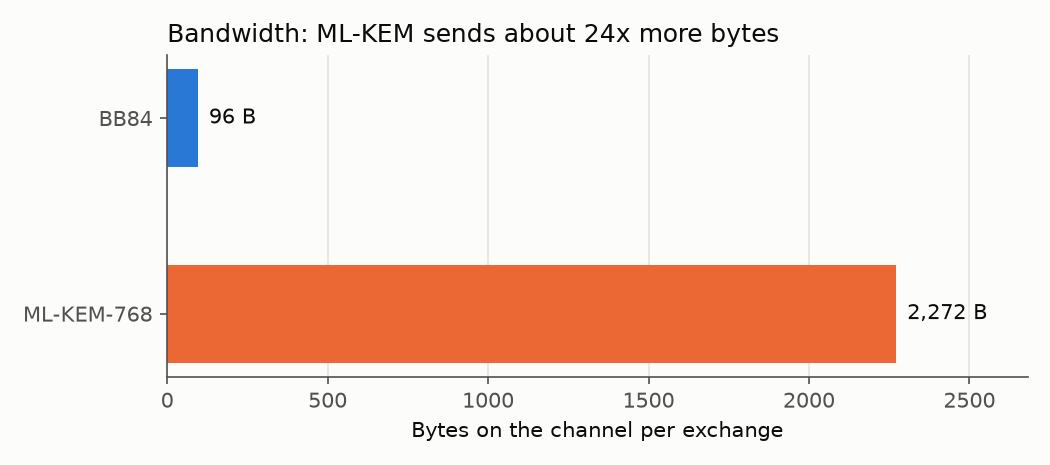
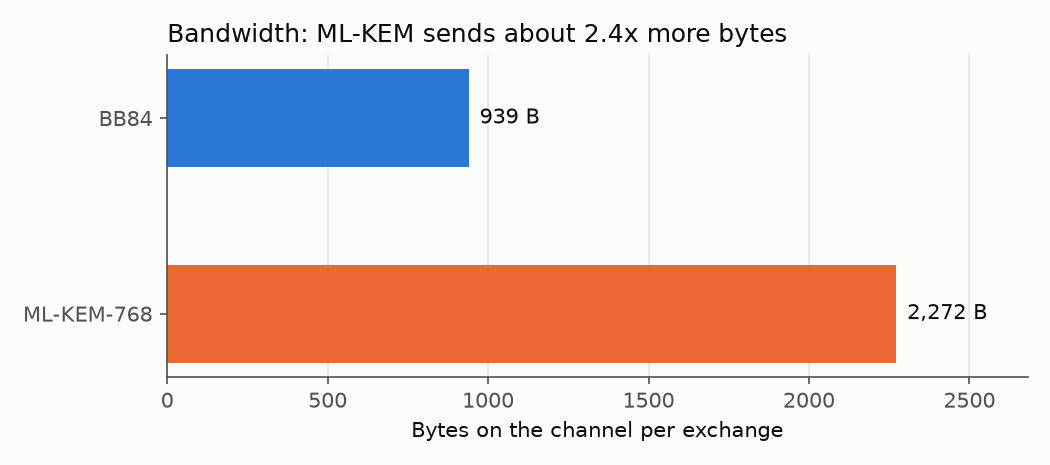
incressed sample

Changed region(s): [[0.1829, 0.1505, 0.5181, 0.3613], [0.5486, 0.0602, 0.7619, 0.0903]]

diff --git a/compare.py b/compare.py
@@ -13,8 +13,8 @@ Metrics per run (one CSV row):
   time_ms      wall time of the whole exchange. BB84 is an Aer *simulation* of the
                photons, not real hardware, so it must not be read as a speed comparison.
 
-    .venv/bin/python compare.py                 # 5 runs x 200 photons
-    .venv/bin/python compare.py --n 2000 --runs 20
+    .venv/bin/python compare.py                 # 20 runs x 2000 photons
+    .venv/bin/python compare.py --n 200 --runs 5   # the small sample of the methodology text
 """
 
 import argparse
@@ -92,8 +92,8 @@ def summarize(rows: list[dict]) -> None:
 
 def main() -> None:
     p = argparse.ArgumentParser(description=__doc__, formatter_class=argparse.RawDescriptionHelpFormatter)
-    p.add_argument("--n", type=int, default=200, help="photons per BB84 run")
-    p.add_argument("--runs", type=int, default=5, help="independent runs per scenario")
+    p.add_argument("--n", type=int, default=2000, help="photons per BB84 run")
+    p.add_argument("--runs", type=int, default=20, help="independent runs per scenario")
     p.add_argument("--out", default="results/comparison.csv")
     a = p.parse_args()
 

diff --git a/plots.py b/plots.py
@@ -141,7 +141,9 @@ def main():
 
     fig_qber(rows, n, runs)
     fig_useful_rate(rows, n, runs)
-    bars(rows, "bytes_total", "Bandwidth: ML-KEM sends about 24x more bytes", "Bytes on the channel per exchange",
+    ratio = stat(rows, "bytes_total", protocol="ML-KEM-768", scenario="baseline")[0] / \
+        stat(rows, "bytes_total", protocol="BB84", scenario="baseline")[0]
+    bars(rows, "bytes_total", f"Bandwidth: ML-KEM sends about {ratio:.1f}x more bytes", "Bytes on the channel per exchange",
          "cmp_bytes.png", lambda v: f"{v:,.0f} B")
     bars(rows, "time_ms", "Processing time per exchange (log scale)", "Wall time (ms)", "cmp_time.png",
          lambda v: f"{v:.2g} ms", log=True,

diff --git a/README.md b/README.md
@@ -49,25 +49,28 @@ cmake -S liboqs -B build -GNinja -DCMAKE_INSTALL_PREFIX=$HOME/_oqs -DBUILD_SHARE
 ## Comparison BB84 vs ML-KEM-768 (methodology §3.3)
 
 ```bash
-.venv/bin/python compare.py     # 5 runs x 200 photons -> results/comparison.csv + summary table
+.venv/bin/python compare.py     # 20 runs x 2000 photons -> results/comparison.csv + summary table
 .venv/bin/python plots.py       # figures/cmp_*.png
 ```
 
 Scenarios: BB84 at 0/3/6/9/12 % noise, with and without an intercept-resend Eve; ML-KEM
-baseline, passive Eve and an active Eve that flips 1 ciphertext bit. Use `--n` and
-`--runs` for larger samples.
+baseline, passive Eve and an active Eve that flips 1 ciphertext bit. The methodology text
+specifies 5 runs of 200 photons (`compare.py --n 200 --runs 5`); the default is a larger
+sample because with 200 photons only about 50 bits are compared and the QBER is too noisy.
 
-| Metric (5 runs of 200 photons) | BB84 | ML-KEM-768 |
+| Metric (20 runs of 2000 photons) | BB84 | ML-KEM-768 |
 |---|---|---|
-| Useful-bit rate (secret bits / bits sent) | 0.255 (about 51 key bits) | 0.014 (256 bits / 2272 B) |
-| Bytes per exchange | about 96 (200 qubits + sifting messages) | 2272 |
-| Time per exchange | about 7 ms (Aer simulation) | about 0.07 ms |
-| Under attack | QBER about 25-27 %: aborts in 100 % of runs | secrets differ in 100 % of runs |
+| Useful-bit rate (secret bits / bits sent) | 0.25 (about 500 key bits) | 0.014 (256 bits / 2272 B) |
+| Bytes per exchange | about 940 (2000 qubits + sifting messages) | 2272 |
+| Time per exchange | about 260 ms (Aer simulation) | about 0.05 ms |
+| Under attack | QBER 25-31 %: aborts in 100 % of runs | secrets differ in 100 % of runs |
+| Honest QBER at 12 % noise | 11.6 %, right at the 11 % threshold: 55 % of runs abort | not affected |
 
 Caveats: the BB84 time is a simulation of the photons, not real hardware, so it is not a
-speed comparison. With 200 photons only about 50 bits are compared, so the QBER is noisy:
-at 12 % noise, 1 of 5 honest runs aborted. ML-KEM does not report the failure itself
-(implicit rejection): the parties end with different secrets and find out when using the key.
+speed comparison. Below 12 % noise no honest run aborts; at 12 % the intrinsic error is as
+large as the threshold, so the abort is a coin flip. ML-KEM does not report the failure
+itself (implicit rejection): the parties end with different secrets and find out when
+using the key.
 
 Figures: `cmp_qber_vs_noise.png`, `cmp_useful_rate.png`, `cmp_bytes.png`, `cmp_time.png`.
 
